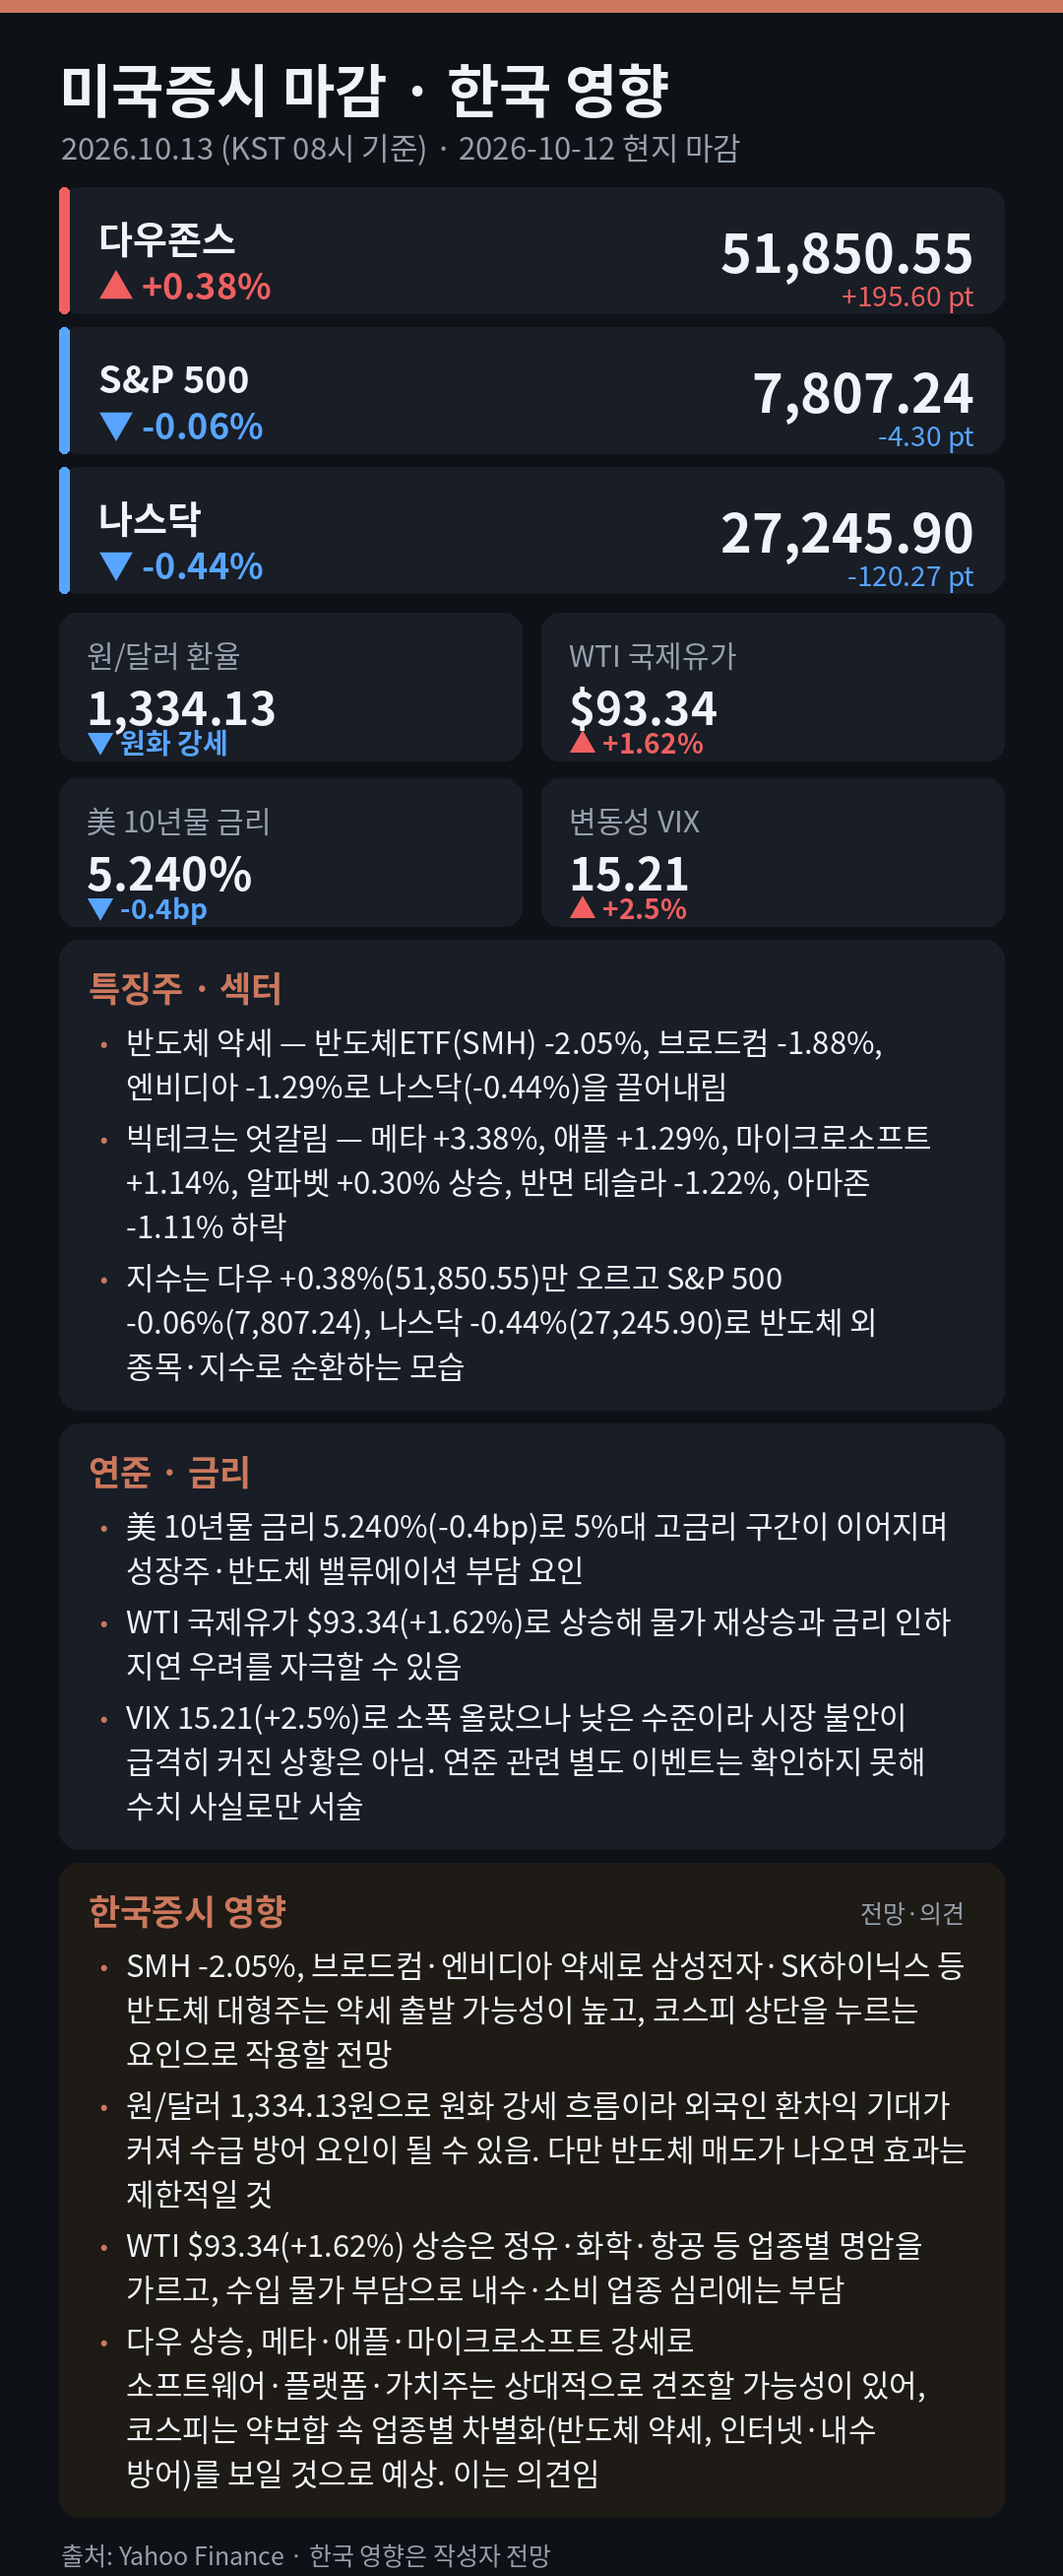
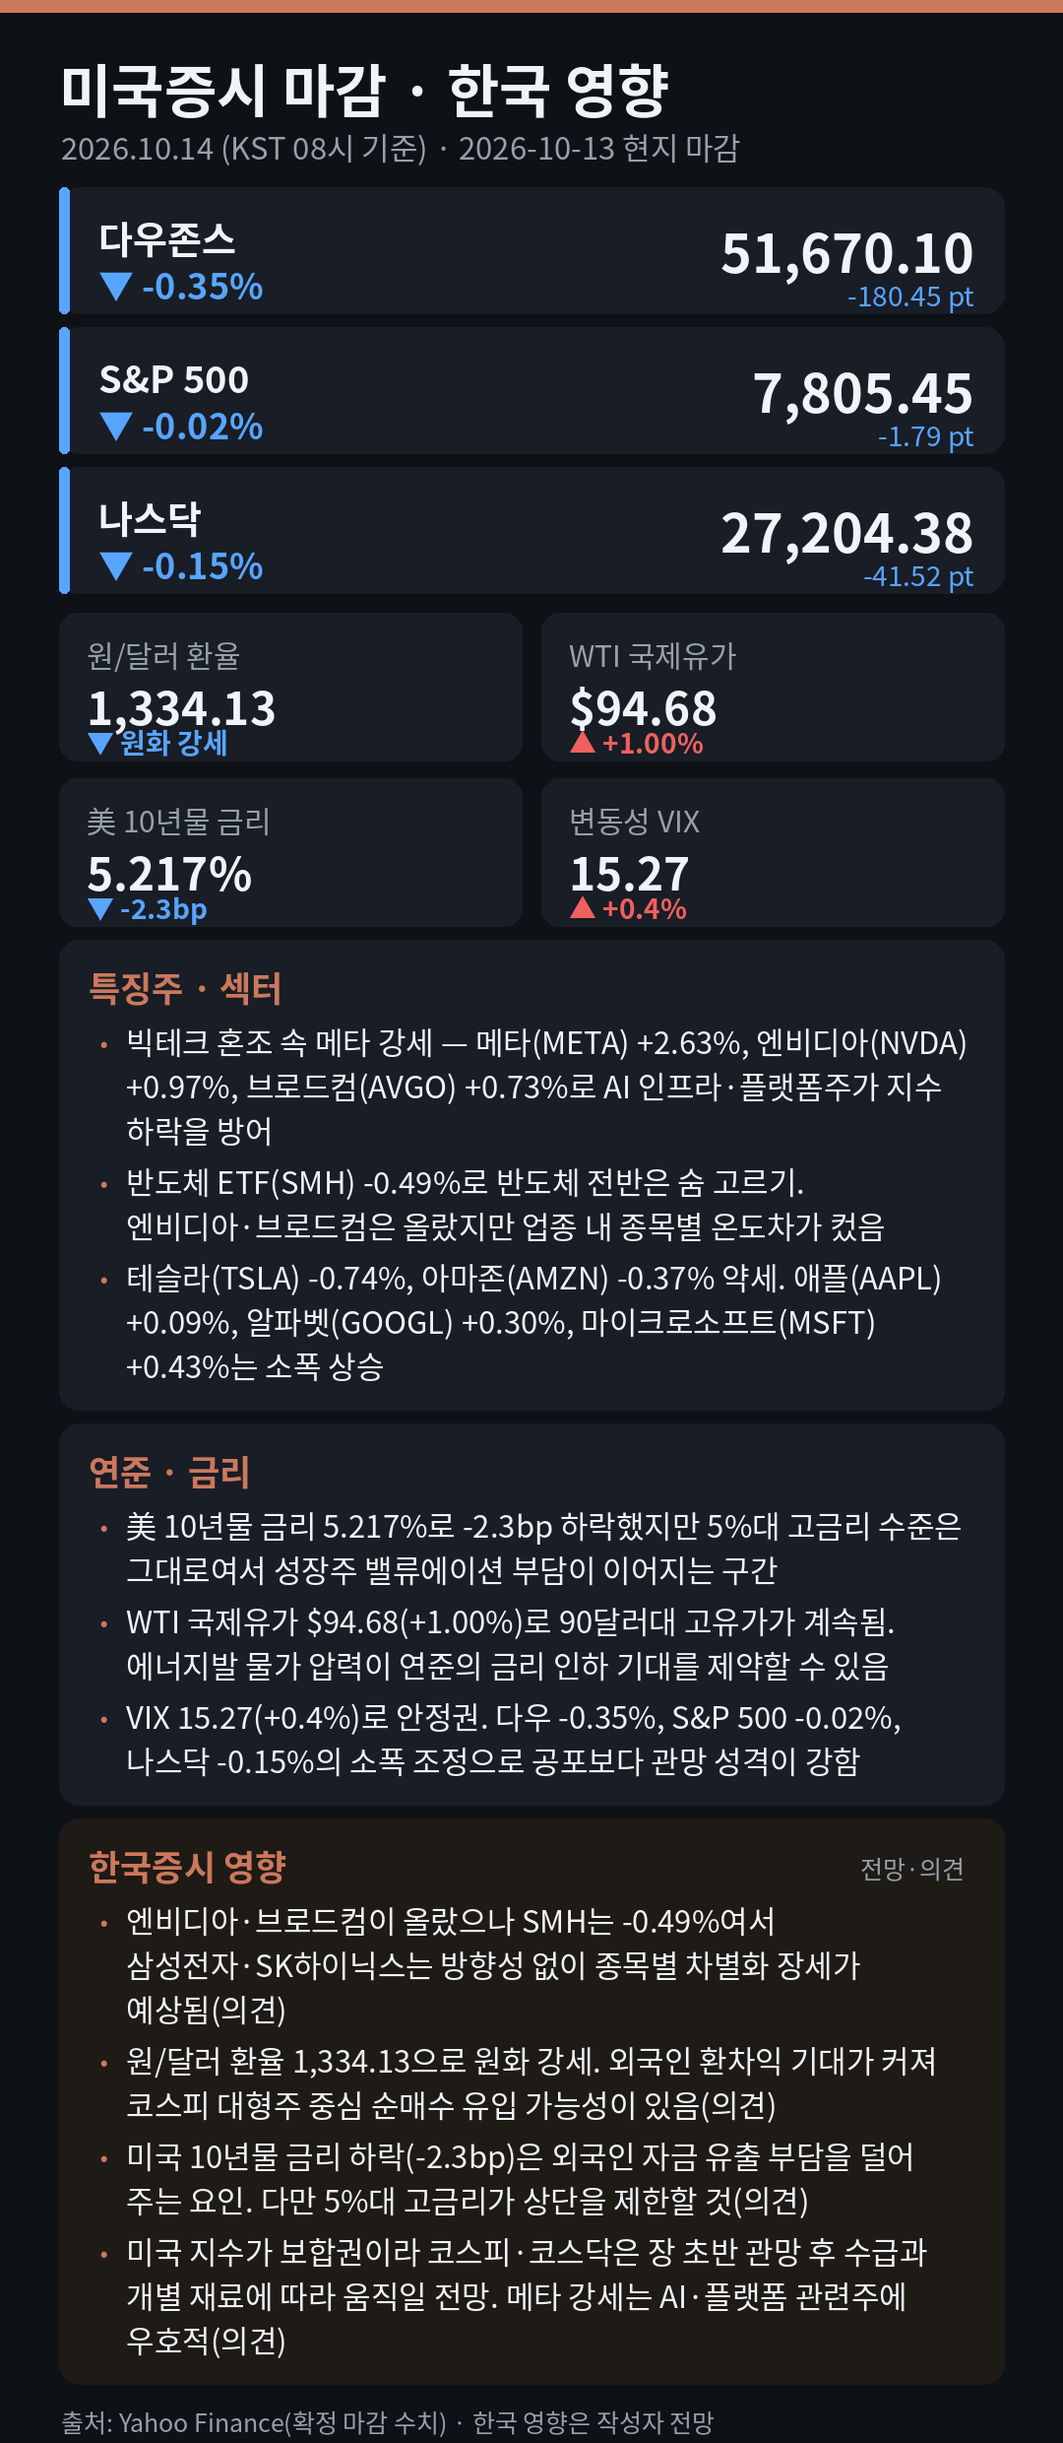
브리핑 2026-10-13 자동 발행

diff --git a/index.html b/index.html
@@ -14,8 +14,8 @@ a{color:#58a5ff;text-decoration:none} .s{color:#8a93a0;font-size:12px;float:righ
 </style></head><body><div class="wrap">
 <h1>미국증시 마감 브리핑</h1>
 <p class="sub">매일 아침(KST 08:02) 자동 업데이트 · 숫자는 Yahoo Finance 기준, 한국 영향은 전망</p>
-<img class="card" src="img/2026-10-12.png?v=2026-10-12" alt="2026-10-12 미국증시 마감"><p class="d">2026-10-12 현지 마감</p>
+<img class="card" src="img/2026-10-13.png?v=2026-10-13" alt="2026-10-13 미국증시 마감"><p class="d">2026-10-13 현지 마감</p>
 <h2>지난 브리핑</h2>
-<ul><li><a href="img/2026-10-12.png">2026-10-12</a> <span class="s">다우존스 +0.38% · S&P 500 -0.06% · 나스닥 -0.44%</span></li><li><a href="img/2026-10-09.png">2026-10-09</a> <span class="s">다우존스 +0.83% · S&P 500 +0.59% · 나스닥 +0.64%</span></li><li><a href="img/2026-10-08.png">2026-10-08</a> <span class="s">다우존스 +0.10% · S&P 500 -0.47% · 나스닥 -1.25%</span></li><li><a href="img/2026-10-07.png">2026-10-07</a> <span class="s">다우존스 -0.66% · S&P 500 -0.22% · 나스닥 -0.22%</span></li><li><a href="img/2026-10-06.png">2026-10-06</a> <span class="s">다우존스 +0.49% · S&P 500 +0.58% · 나스닥 +0.45%</span></li><li><a href="img/2026-10-05.png">2026-10-05</a> <span class="s">다우존스 +0.18% · S&P 500 +0.66% · 나스닥 +1.05%</span></li><li><a href="img/2026-10-02.png">2026-10-02</a> <span class="s">다우존스 +0.49% · S&P 500 +0.73% · 나스닥 +1.19%</span></li><li><a href="img/2026-10-01.png">2026-10-01</a> <span class="s">다우존스 +0.04% · S&P 500 +0.19% · 나스닥 +0.04%</span></li><li><a href="img/2026-09-30.png">2026-09-30</a> <span class="s">다우존스 -0.86% · S&P 500 -0.25% · 나스닥 +0.24%</span></li><li><a href="img/2026-09-29.png">2026-09-29</a> <span class="s">다우존스 -0.26% · S&P 500 -0.17% · 나스닥 -0.09%</span></li><li><a href="img/2026-09-28.png">2026-09-28</a> <span class="s">다우존스 -0.67% · S&P 500 -0.77% · 나스닥 -0.92%</span></li></ul>
+<ul><li><a href="img/2026-10-13.png">2026-10-13</a> <span class="s">다우존스 -0.35% · S&P 500 -0.02% · 나스닥 -0.15%</span></li><li><a href="img/2026-10-12.png">2026-10-12</a> <span class="s">다우존스 +0.38% · S&P 500 -0.06% · 나스닥 -0.44%</span></li><li><a href="img/2026-10-09.png">2026-10-09</a> <span class="s">다우존스 +0.83% · S&P 500 +0.59% · 나스닥 +0.64%</span></li><li><a href="img/2026-10-08.png">2026-10-08</a> <span class="s">다우존스 +0.10% · S&P 500 -0.47% · 나스닥 -1.25%</span></li><li><a href="img/2026-10-07.png">2026-10-07</a> <span class="s">다우존스 -0.66% · S&P 500 -0.22% · 나스닥 -0.22%</span></li><li><a href="img/2026-10-06.png">2026-10-06</a> <span class="s">다우존스 +0.49% · S&P 500 +0.58% · 나스닥 +0.45%</span></li><li><a href="img/2026-10-05.png">2026-10-05</a> <span class="s">다우존스 +0.18% · S&P 500 +0.66% · 나스닥 +1.05%</span></li><li><a href="img/2026-10-02.png">2026-10-02</a> <span class="s">다우존스 +0.49% · S&P 500 +0.73% · 나스닥 +1.19%</span></li><li><a href="img/2026-10-01.png">2026-10-01</a> <span class="s">다우존스 +0.04% · S&P 500 +0.19% · 나스닥 +0.04%</span></li><li><a href="img/2026-09-30.png">2026-09-30</a> <span class="s">다우존스 -0.86% · S&P 500 -0.25% · 나스닥 +0.24%</span></li><li><a href="img/2026-09-29.png">2026-09-29</a> <span class="s">다우존스 -0.26% · S&P 500 -0.17% · 나스닥 -0.09%</span></li></ul>
 <p class="foot">자동 생성 · Navis</p>
 </div></body></html>
